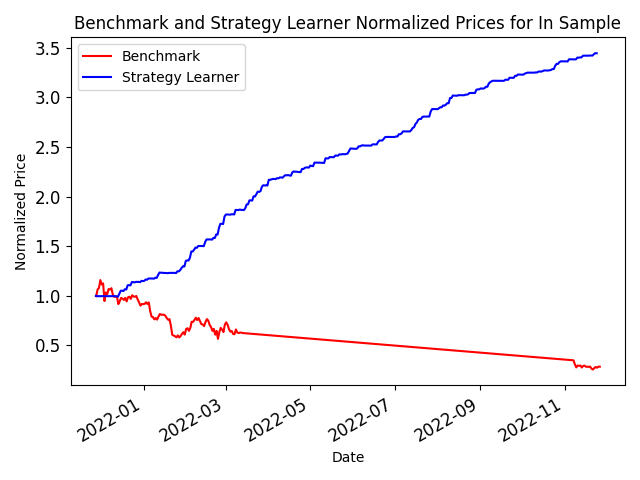
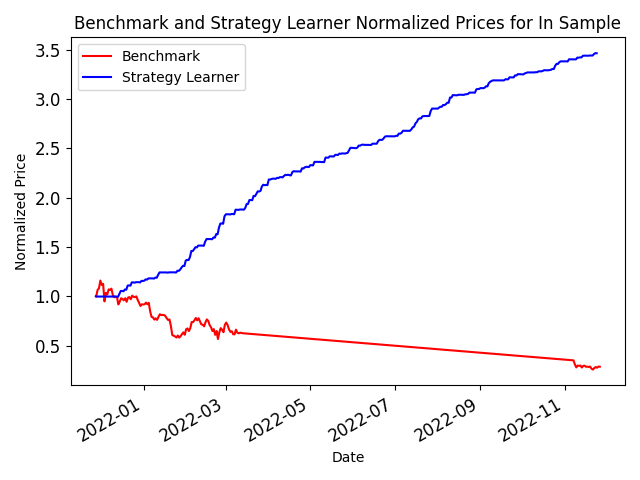
Impact 0.003

diff --git a/experiment2.py b/experiment2.py
@@ -37,21 +37,20 @@ async def run_experiment(bar):
     global current_day
     if current_day == True:
         current_day = dt.datetime.utcnow().date() - dt.timedelta(days = 2)
-        #current_day = dt.date.today() - dt.timedelta(days = 1)
     timestamp = bar.timestamp
     timestamp_seconds = timestamp/10**9
     converted_datetime = dt.date.fromtimestamp(timestamp_seconds)
     seconds_in_day = timestamp_seconds % 86400
     bar_start = 21659 # we need to wait for the old bar to load (06:00:59 gives extra time)
-    too_late = 43200 # we don't want to do anything if it's afternoon
-    #too_late = 86400 # for testing only
+    too_late = bar_start + 60*15 # we don't want to do anything if it's significantly later (> 15 minutes)
+    too_late = 86400 # for testing only
     if converted_datetime == current_day or seconds_in_day <= bar_start or seconds_in_day > too_late:
         return
     else:
         current_day = converted_datetime
     price = bar.close
     commission = 0
-    impact = 0.004
+    impact = 0.003
     sd_in = dt.datetime.utcnow() - dt.timedelta(days = 365)
     ed_in = dt.datetime.utcnow()
     sd_in = dt.datetime(2022, 5, 27) #testing new method
@@ -60,7 +59,7 @@ async def run_experiment(bar):
     buy_power = get_buy_power()
     current_position = get_current_position(symbol)
     trade_type = get_trade(symbol, sd_in, ed_in, impact, commission, current_position, crypto)
-    quantity = float(buy_power)/float(price)*0.95
+    quantity = float(buy_power)/float(price)*0.99
     if trade_type == -1:
         quantity = current_position
     make_trade(symbol, quantity, trade_type, crypto)

diff --git a/StrategyLearner.py b/StrategyLearner.py
@@ -136,7 +136,8 @@ class StrategyLearner(object):
         rsi_window = 14
         ema_window = 14
         sd_recent = dt.datetime.utcnow() - dt.timedelta(days = 2*max([rsi_window, ema_window]))
-        ed_recent = dt.datetime.utcnow()
+        ed_recent = dt.datetime.utcnow()# - dt.timedelta(days = 1)
+        ed_recent = dt.datetime(ed_recent.year, ed_recent.month, ed_recent.day)
         if crypto:
             recent_data = get_crypto_data(symbol=symbol, start_date=sd_recent, end_date=ed_recent)
         else:
